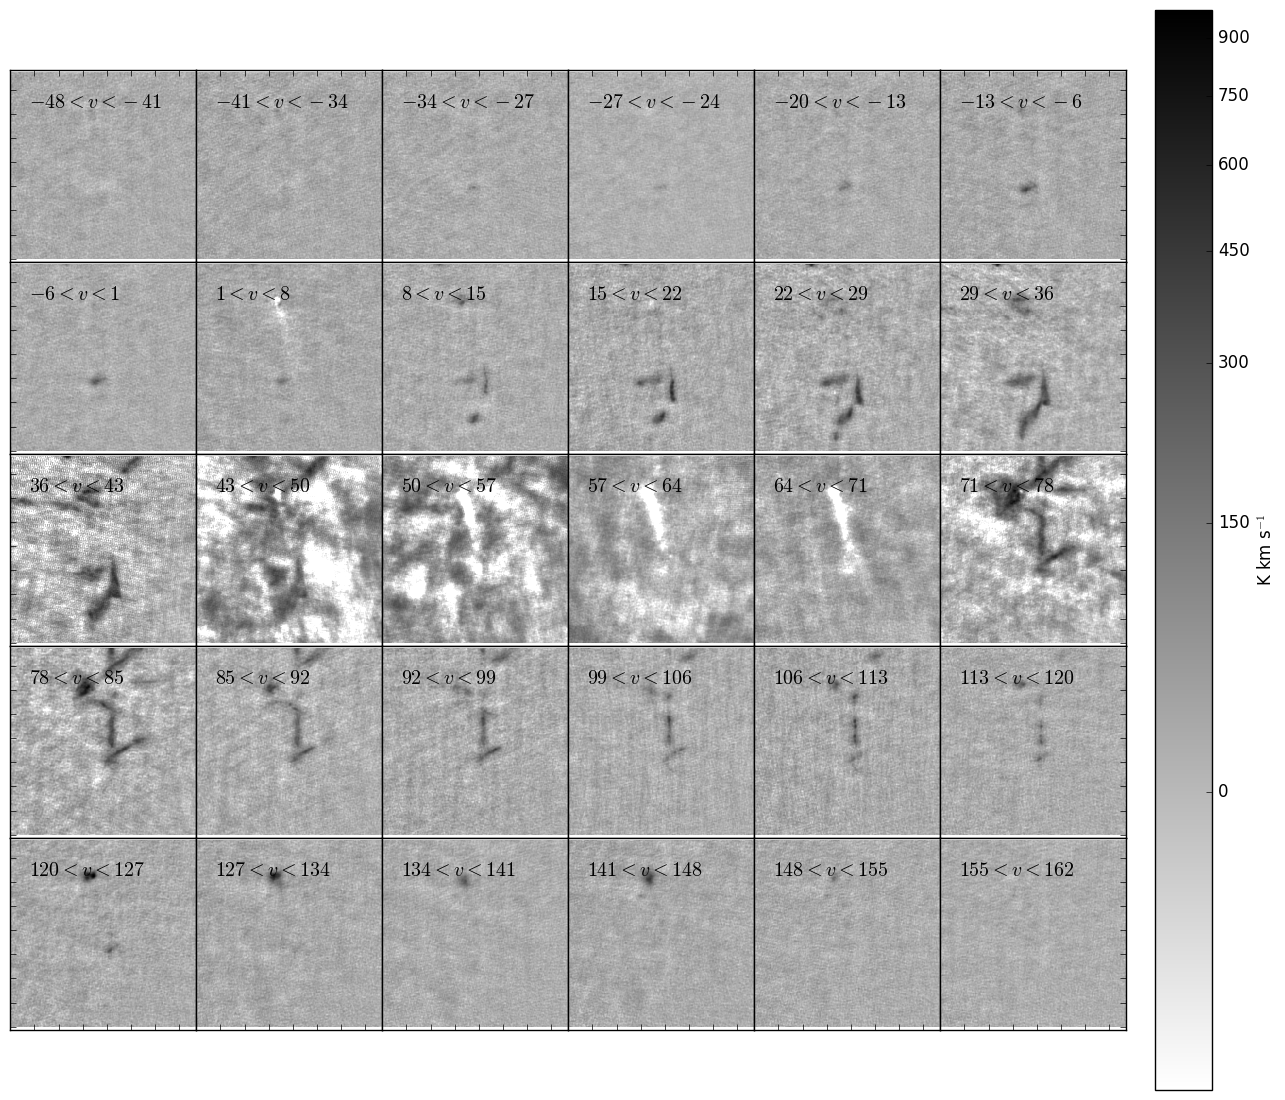
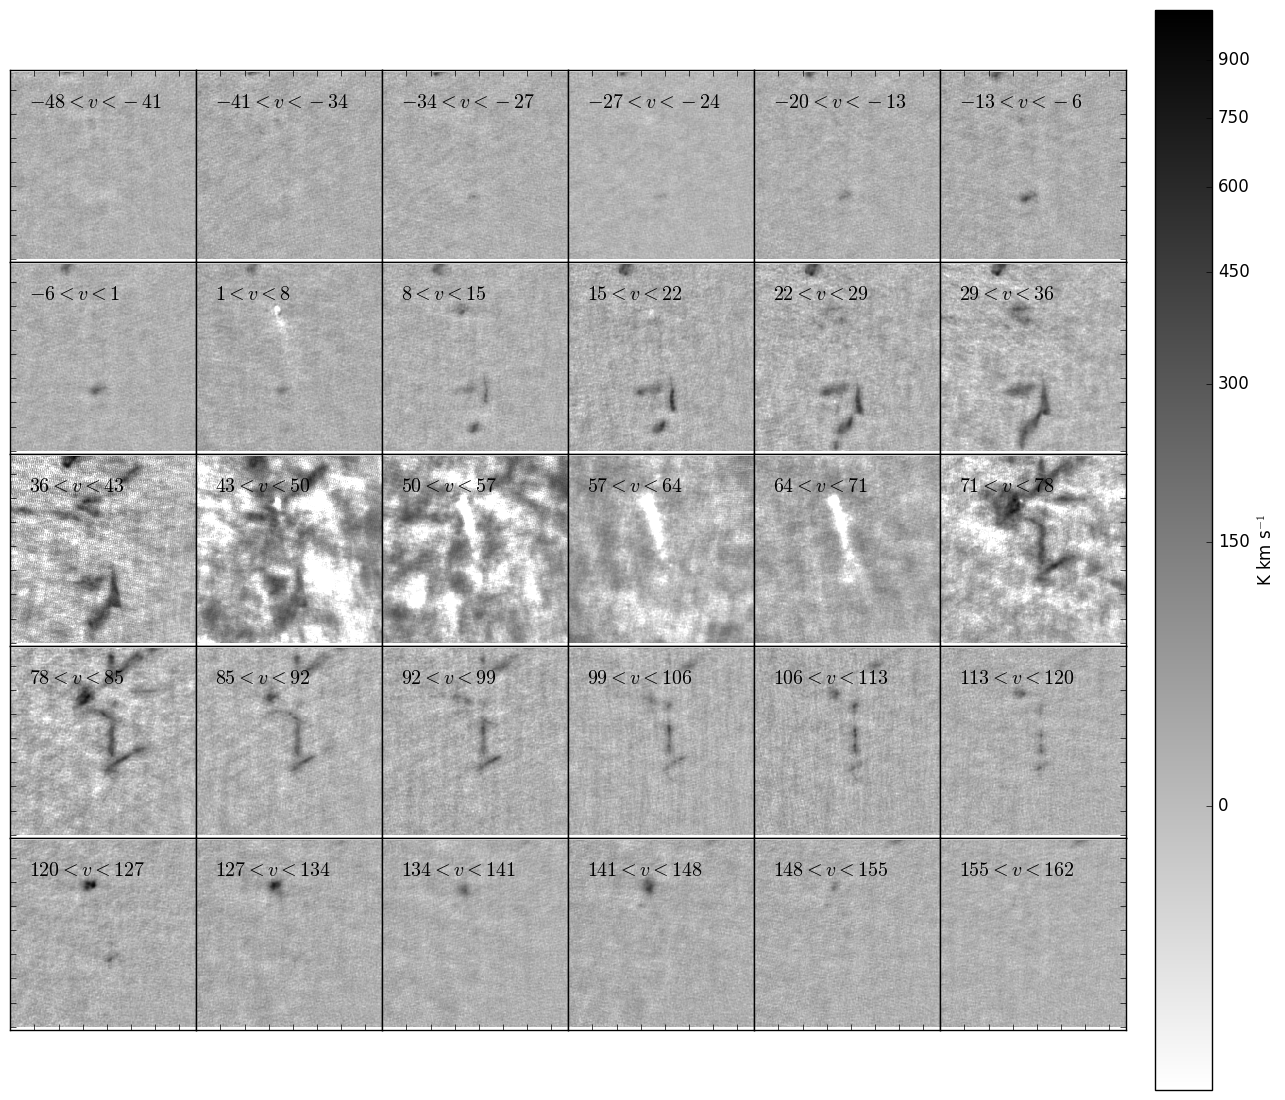
figures remade (apparently?  I don't remember doing that...) and script updates

diff --git a/cores_and_outflows/cores_and_outflows.tex b/cores_and_outflows/cores_and_outflows.tex
@@ -114,7 +114,7 @@ The cubes use only 12m data, as the 12m + 7m combination was unsuccessful.
 this approximately shows the amount of data received at each baseline length.}
 {fig:uvcov}{1}{16cm}
 
-\subsection{Morphological Analysis}
+\subsection{Continuum Morphological Analysis}
 \label{sec:morphology}
 The largest detected structures include the W51 Main HII region bubble and the
 W51 IRS2 HII region, which are relatively uninteresting since their properties
@@ -229,7 +229,7 @@ confirming that they consist only of dust emission.
 
 
 
-\subsection{Kinematics}
+\subsection{Dense Gas Kinematics}
 \label{sec:kinematics}
 We examine the gas kinematics throughout the cloud, but especially near the 
 massive cores.
@@ -253,51 +253,51 @@ foreground, and this gas is clearly moving toward the cores.
 
 The source ALMAmm14 shows a similar kinematic signature....
 
-\subsection{Simulations}
-{\bf Unfortunately CASA's simulations produce reproducible incorrectness, in
-that I cannot get an image that matches the input image.  There seems to
-*always* be some flux scaling no matter what input unit is used.  Therefore, I
-don't trust any of the results of CASA simulations yet.  Perseus looks OK, but
-Aquila is just flat out wrong, and the scale-recovery simulations I attempted
-also failed.
-
-Followup on the above paragraph: I've gotten the simulations worked out; CASA
-always treats data as if they are in Jy/beam even if Jy/pixel units are
-specified when using the \texttt{sm.predict} module.  However, I'm not
-convinced of their utility at this stage.}
-
-The enhanced noise around bright sources is unavoidable.  We tested the noise
-properties of our data set using the CASA \texttt{simobserve} toolkit.  We
-obtained a Herschel Gould's Belt Survey image of the Perseus molecular cloud at
-250 \um \citep[resolution 18\arcsec][]{} and scaled it down by $\sim40\times$
-to match the resolution of our ALMA data.  We used the \texttt{sm.predict} task
-to ``observe'' the Herschel data with our exact UV data set.  We then used
-\texttt{sm.corrupt} to make the noise properties approximately match those of
-our observations.
-
-We used the Perseus data scaled from 250 \um to 1.3 mm assuming
-a relatively shallow $\beta=1.5$ and a constant temperature $T=20$ K
-(since temperature maps are not available).
-For the Aquila data, we used the column density and temperature maps to
-derive a synthetic 1.3 mm map assuming an opacity $\kappa_{505 \mathrm{GHz}} =
-4$ g \percc.  Since Aquila is at a greater distance, the Herschel resolution is
-coarser (0.9 \arcsec at 5.4 kpc) than our best resolution of 0.2\arcsec, so it
-is best compared to lower-resolution tapered data.
-
-
-When imaging the Perseus data set, we put NGC 1333 at the image center.  At the
-noise levels in our data, only the central portions of NGC 1333 are detected,
-with three point sources recovered.  In this map, the noise properties are
-very uniform.  We are therefore unable to analyze the NGC
-1333 data with the exact same parameters as were used on W51.  However, using
-similar parameters (but with a lower significance threshold), we detect only
-three sources.
-
-In a second experiment, we scaled the peak flux density of the Perseus map to
-be $\sim100\times$ brighter than it should be, making it comparable to the flux
-density of W51e2 in the real ALMA observations.  In this map, even with deep
-cleaning, the noise around the bright sources remains very high and artifacts
-are evident.
+% \subsection{Simulations}
+% {\bf Unfortunately CASA's simulations produce reproducible incorrectness, in
+% that I cannot get an image that matches the input image.  There seems to
+% *always* be some flux scaling no matter what input unit is used.  Therefore, I
+% don't trust any of the results of CASA simulations yet.  Perseus looks OK, but
+% Aquila is just flat out wrong, and the scale-recovery simulations I attempted
+% also failed.
+% 
+% Followup on the above paragraph: I've gotten the simulations worked out; CASA
+% always treats data as if they are in Jy/beam even if Jy/pixel units are
+% specified when using the \texttt{sm.predict} module.  However, I'm not
+% convinced of their utility at this stage.}
+% 
+% The enhanced noise around bright sources is unavoidable.  We tested the noise
+% properties of our data set using the CASA \texttt{simobserve} toolkit.  We
+% obtained a Herschel Gould's Belt Survey image of the Perseus molecular cloud at
+% 250 \um \citep[resolution 18\arcsec][]{} and scaled it down by $\sim40\times$
+% to match the resolution of our ALMA data.  We used the \texttt{sm.predict} task
+% to ``observe'' the Herschel data with our exact UV data set.  We then used
+% \texttt{sm.corrupt} to make the noise properties approximately match those of
+% our observations.
+% 
+% We used the Perseus data scaled from 250 \um to 1.3 mm assuming
+% a relatively shallow $\beta=1.5$ and a constant temperature $T=20$ K
+% (since temperature maps are not available).
+% For the Aquila data, we used the column density and temperature maps to
+% derive a synthetic 1.3 mm map assuming an opacity $\kappa_{505 \mathrm{GHz}} =
+% 4$ g \percc.  Since Aquila is at a greater distance, the Herschel resolution is
+% coarser (0.9 \arcsec at 5.4 kpc) than our best resolution of 0.2\arcsec, so it
+% is best compared to lower-resolution tapered data.
+% 
+% 
+% When imaging the Perseus data set, we put NGC 1333 at the image center.  At the
+% noise levels in our data, only the central portions of NGC 1333 are detected,
+% with three point sources recovered.  In this map, the noise properties are
+% very uniform.  We are therefore unable to analyze the NGC
+% 1333 data with the exact same parameters as were used on W51.  However, using
+% similar parameters (but with a lower significance threshold), we detect only
+% three sources.
+% 
+% In a second experiment, we scaled the peak flux density of the Perseus map to
+% be $\sim100\times$ brighter than it should be, making it comparable to the flux
+% density of W51e2 in the real ALMA observations.  In this map, even with deep
+% cleaning, the noise around the bright sources remains very high and artifacts
+% are evident.
 
 
 
@@ -692,6 +692,8 @@ The e8 core is launching a redshifted outflow to the northwest.  A blueshifted
 outflow is coming from somewhere south of the e8 peak and pointing straight
 east.  While these originate quite near each other, they seem not to have
 a common source, since the red and blue streams are not parallel.
+
+\subsection{north}
 
 
 \Figure{{figures/Alma1.4mmcont_green_outflows_aplpy_CONTours}.png}

diff --git a/script_merge/scriptForImaging_fullcube_tclean.py b/script_merge/scriptForImaging_fullcube_tclean.py
@@ -20,8 +20,8 @@ imsize = [960,960] # size of image in pixels.
 # be controlled within clean.
 
 weighting = 'briggs'
-robust=0.5
-threshold = '20.0mJy'
+robust=1.0
+threshold = '100.0mJy'
 
 spws_12m = {0: '0,4',
             1: '1,5',
@@ -61,9 +61,10 @@ for spwnum in '1320':
         spw = spws_12m[spwnum]
         for ss in spw.split(","):
             ss = int(ss)
-            cvelvis12m = 'w51_concat.spw{0}.cvel'.format(ss)
+            cvelvis12m = 'w51_12m.spw{0}.cvel'.format(ss)
             cvelvises.append(cvelvis12m)
-            if not os.path.exists('cvelvis12m'):
+            if not os.path.exists(cvelvis12m):
+                print("cveling {0}".format(cvelvis12m))
                 cvel(vis=finalvis12m,
                      outputvis=cvelvis12m,
                      passall=False, field=field, spw=str(ss), selectdata=True,
@@ -71,14 +72,17 @@ for spwnum in '1320':
                      nchan=nchans_total[spwnum],
                      start='{0}MHz'.format(frange[spwnum][0]),
                      width='{0}kHz'.format(fstep[spwnum]), interpolation='linear',
-                     phasecenter='', restfreq='', outframe='', veltype='radio',
+                     phasecenter='', restfreq='', outframe='LSRK', veltype='radio',
                      hanning=False,)
+            else:
+                print("skipping {0}".format(cvelvis12m))
         spw = spws_7m[spwnum]
         for ss in spw.split(","):
             ss = int(ss)
-            cvelvis7m = 'w51_concat.spw{0}.cvel'.format(ss)
+            cvelvis7m = 'w51_7m.spw{0}.cvel'.format(ss)
             cvelvises.append(cvelvis7m)
-            if not os.path.exists('cvelvis7m'):
+            if not os.path.exists(cvelvis7m):
+                print("cveling {0}".format(cvelvis7m))
                 cvel(vis=finalvis7m,
                      outputvis=cvelvis7m,
                      passall=False, field=field, spw=str(ss), selectdata=True,
@@ -86,8 +90,10 @@ for spwnum in '1320':
                      nchan=nchans_total[spwnum],
                      start='{0}MHz'.format(frange[spwnum][0]),
                      width='{0}kHz'.format(fstep[spwnum]), interpolation='linear',
-                     phasecenter='', restfreq='', outframe='', veltype='radio',
+                     phasecenter='', restfreq='', outframe='LSRK', veltype='radio',
                      hanning=False,)
+            else:
+                print("skipping {0}".format(cvelvis7m))
         concat(vis=cvelvises,
                concatvis=concatvis,)
     else:
@@ -97,8 +103,11 @@ for spwnum in '1320':
     nchans_total_thiscube = nchans_total[spwnum]
     nchans_per_cube = int(nchans_total_thiscube/ncubes_per_window)
     for ii in range(ncubes_per_window):
-        start = nchans_per_cube*ii
-        end = nchans_per_cube*(ii+1)
+        # add 1 channel at start and 1 at end because tclean mistreats these channels
+        start = nchans_per_cube*ii -1
+        if start <= 0:
+            start = 0
+        end = nchans_per_cube*(ii+1) +1
         if end > nchans_total_thiscube:
             end = nchans_total_thiscube
         output = 'piece_of_full_W51_7m12m_cube.spw{0}.channels{1}to{2}'.format(spwnum, start, end)
@@ -110,37 +119,46 @@ for spwnum in '1320':
 
 
         # LINE IMAGING (MOSAIC MODE)
-        if not os.path.exists(output+".image"):
+        if (not (os.path.exists(output+".image.fits") or
+                 os.path.exists(output+".image.pbcor.fits"))
+            or ('reclean' in locals() and reclean)):
             print "Imaging {0}".format(output)
             os.system('rm -rf ' + output + '*')
             tclean(vis = concatvis,
-                  imagename = output,
-                  field = '',
-                  spw = '', # there should be only one
-                  gridder='mosaic',
-                  specmode = 'cube',
-                  width = width,
-                  start = startfreq,
-                  nchan = nchans_per_cube,
-                  veltype = 'radio',
-                  outframe = 'LSRK',
+                   imagename = output,
+                   field = '',
+                   spw = '', # there should be only one
+                   gridder='mosaic',
+                   specmode = 'cube',
+                   width = width,
+                   start = startfreq,
+                   nchan = nchans_per_cube + 2, # 1 channel at either end for buffer
+                   veltype = 'radio',
+                   outframe = 'LSRK',
                    deconvolver='clark',
-                  interactive = F,
-                  niter = 5000,
-                  imsize = imsize,
-                  cell = cell,
-                  weighting = weighting,
-                  phasecenter = phasecenter,
-                  robust = robust,
-                  threshold = threshold,
-                  savemodel='none',
-                  )
+                   interactive = F,
+                   niter = 500000, # huge niter: forcibly go to the threshold
+                   # in principle, at least, this might help smooth over the
+                   # band-edge issues
+                   imsize = imsize,
+                   cell = cell,
+                   weighting = weighting,
+                   phasecenter = phasecenter,
+                   robust = robust,
+                   threshold = threshold,
+                   savemodel='none',
+                   )
 
-          
-        myimagebase = output
-        # I've given up on primary beam correction, at least for now
-        exportfits(imagename=myimagebase+'.image',
-                   fitsimage=myimagebase+'.image.fits',
-                   overwrite=True,
-                   dropdeg=True)
+              
+            myimagebase = output
+            exportfits(myimagebase+'.image', myimagebase+'.image.fits',
+                       dropdeg=True, overwrite=True)
+            impbcor(imagename=myimagebase+'.image',pbimage=myimagebase+'.pb',
+                    outfile=myimagebase+'.image.pbcor', overwrite=True)
+            exportfits(myimagebase+'.image.pbcor',
+                       myimagebase+'.image.pbcor.fits', dropdeg=True,
+                       overwrite=True)
 
+            for suffix in ('psf', 'weight', 'sumwt', 'pb', 'model', 'residual',
+                           'mask', 'image'):
+                os.system('rm -rf {0}.{1}'.format(myimagebase, suffix))

diff --git a/analysis/fullcube_cutouts.py b/analysis/fullcube_cutouts.py
@@ -21,7 +21,7 @@ corners = {reg.attr[1]['text']:
            for reg in regions
           }
 
-for source in ('e2','e8','north'):
+for source in ('e2','e8','north','northoutflow'):
     for cubefn in glob.glob("full*fits"):
 
         try:
